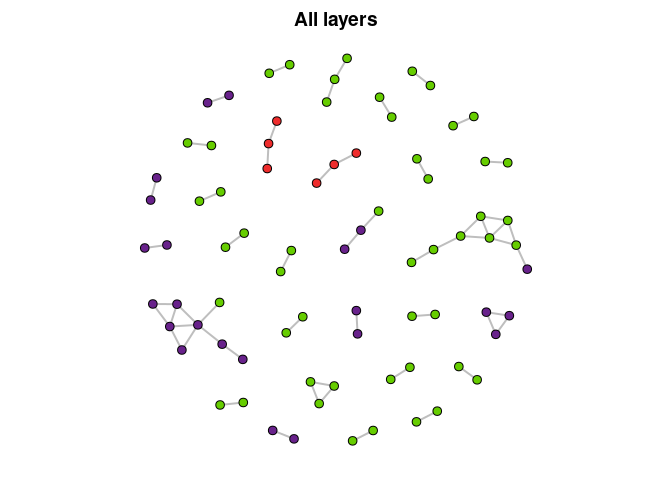
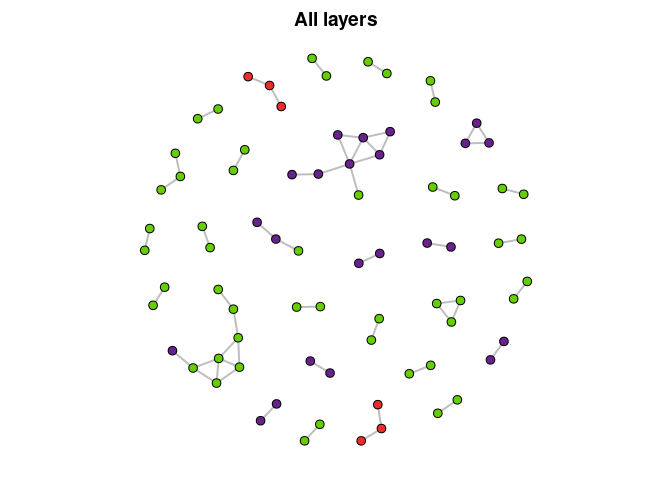
update doc

diff --git a/README.md b/README.md
@@ -10,18 +10,23 @@ is mainly based on the ‘igraph’ package for graph analysis. Functions
 can: 1) create, manipulate, and simulate fragmentation graphs, 2)
 measure the cohesion and admixture of archaeological spatial units, and
 3) characterise the topology of a specific set of refitting
-relationships.  A series of datasets are provided as examples.
+relationships. A series of datasets are provided as examples.
 
-
-[![Project Status: Active – The project has reached a stable, usable state and is being actively developed.](https://www.repostatus.org/badges/latest/active.svg)](https://www.repostatus.org/#active)
-[![Lifecycle: stable](https://img.shields.io/badge/lifecycle-stable-blue.svg)](https://lifecycle.r-lib.org/articles/stages.html#stable)
-[![R build status](https://github.com/sebastien-plutniak/archeofrag/workflows/R-CMD-check/badge.svg)](https://github.com/sebastien-plutniak/archeofrag/actions)
+[![Project Status: Active – The project has reached a stable, usable
+state and is being actively
+developed.](https://www.repostatus.org/badges/latest/active.svg)](https://www.repostatus.org/#active)
+[![Lifecycle:
+stable](https://img.shields.io/badge/lifecycle-stable-blue.svg)](https://lifecycle.r-lib.org/articles/stages.html#stable)
+[![R build
+status](https://github.com/sebastien-plutniak/archeofrag/workflows/R-CMD-check/badge.svg)](https://github.com/sebastien-plutniak/archeofrag/actions)
 [![codecov](https://codecov.io/gh/sebastien-plutniak/archeofrag/branch/master/graph/badge.svg)](https://app.codecov.io/gh/sebastien-plutniak/archeofrag)
 [![DOI](https://zenodo.org/badge/DOI/10.5281/zenodo.4271900.svg)](https://doi.org/10.5281/zenodo.4271900)
 [![SWH](https://archive.softwareheritage.org/badge/origin/https://github.com/cran/archeofrag/)](https://archive.softwareheritage.org/browse/origin/?origin_url=https://github.com/cran/archeofrag)
 [![r-universe](https://sebastien-plutniak.r-universe.dev/badges/archeofrag)](https://sebastien-plutniak.r-universe.dev/ui#package:archeofrag)
-[![CRAN status](https://www.r-pkg.org/badges/version/archeofrag)](https://CRAN.R-project.org/package=archeofrag)
-[![CRAN Downloads](https://cranlogs.r-pkg.org/badges/grand-total/archeofrag?color=brightgreen&.svg)](https://cran.r-project.org/package=archeofrag)
+[![CRAN
+status](https://www.r-pkg.org/badges/version/archeofrag)](https://CRAN.R-project.org/package=archeofrag)
+[![CRAN
+Downloads](https://cranlogs.r-pkg.org/badges/grand-total/archeofrag?color=brightgreen&.svg)](https://cran.r-project.org/package=archeofrag)
 [![license](https://img.shields.io/badge/License-GPL%20v3-blue.svg)](https://www.r-project.org/Licenses/GPL-3)
 [![status](https://joss.theoj.org/papers/ff2007d87bd4c8460b265c69dc403316/status.svg)](https://joss.theoj.org/papers/ff2007d87bd4c8460b265c69dc403316)
 
@@ -103,7 +108,8 @@ with:
 remotes::install_github("sebastien-plutniak/archeofrag")
 ```
 
-The (optional) determination of graph planarity in *Archeofrag* requires the *RBGL* package, available through *Bioconductor*:
+The (optional) determination of graph planarity in *Archeofrag* requires
+the *RBGL* package, available through *Bioconductor*:
 
 ``` r
 if (!requireNamespace("BiocManager", quietly = TRUE))
@@ -232,10 +238,10 @@ between the two spatial units (`mixed.components.only`).
 ``` r
 frag.get.layers.pair(abu.g, layer.attr="layer", sel.layers=c("1", "2"),
                      size.mini=2, mixed.components.only=TRUE)
-#> IGRAPH d4e2221 UN-- 19 22 -- 
+#> IGRAPH bed61b7 UN-- 19 22 -- 
 #> + attr: frag_type (g/c), name (v/c), layer (v/n), zmin (v/n), zmax (v/n), square (v/c), square.x (v/n), square.y (v/n), thickness
 #> | (v/n), length (v/n), thickness.by.length (v/n), sherd.type (v/c), membership (v/n), type_relation (e/c)
-#> + edges from d4e2221 (vertex names):
+#> + edges from bed61b7 (vertex names):
 #>  [1] 27 --28  28 --835 835--836 25 --8   27 --366 27 --367 28 --367 366--367 27 --371 332--371 366--371 187--188 165--195 25 --195 195--196
 #> [16] 195--197 196--198 195--204 196--204 197--204 198--204 188--250
 ```
@@ -247,10 +253,10 @@ Liang Abu:
 ``` r
 frag.get.layers(abu.g, layer.attr="layer", sel.layers="1")
 #> $`1`
-#> IGRAPH 38b572f UN-- 23 18 -- 
+#> IGRAPH 2e63535 UN-- 23 18 -- 
 #> + attr: frag_type (g/c), name (v/c), layer (v/n), zmin (v/n), zmax (v/n), square (v/c), square.x (v/n), square.y (v/n), thickness
 #> | (v/n), length (v/n), thickness.by.length (v/n), sherd.type (v/c), type_relation (e/c)
-#> + edges from 38b572f (vertex names):
+#> + edges from 2e63535 (vertex names):
 #>  [1] 392--408  123--124  301--302  313--314  435--441  477--478  25 --8    435--9999 441--9999 187--188  25 --195  195--196  195--197  196--198 
 #> [15] 195--204  196--204  197--204  198--204
 ```
@@ -566,13 +572,13 @@ value, admixture value, and cohesion values of the two spatial units).
 compare.res <- frag.simul.compare(abu.g12, layer.attr="layer",
                                   iter=30, summarise=FALSE)
 head(compare.res$h1.data)
-#>   edges weightsum   balance disturbance admixture cohesion1 cohesion2
-#> 1    55  242.8552 0.3194444  0.07272727    0.0155    0.3839    0.6006
-#> 2    54  252.2087 0.3472222  0.05555556    0.0082    0.3442    0.6476
-#> 3    54  246.7130 0.3472222  0.07407407    0.0153    0.2581    0.7266
-#> 4    53  234.7979 0.2638889  0.01886792    0.0011    0.2133    0.7856
-#> 5    58  313.6850 0.2916667  0.06896552    0.0127    0.1237    0.8636
-#> 6    50  172.7563 0.3611111  0.06000000    0.0109    0.4349    0.5542
+#>   edges weightsum balance components.balance disturbance admixture cohesion1 cohesion2
+#> 1    53  186.2886    0.32               0.32        0.04    0.0384    0.2964    0.6652
+#> 2    56  271.7788    0.29               0.33        0.04    0.0142    0.1958    0.7900
+#> 3    51  180.1365    0.30               0.27        0.04    0.0194    0.3071    0.6735
+#> 4    53  223.0447    0.33               0.35        0.04    0.0166    0.3015    0.6819
+#> 5    51  172.1320    0.35               0.36        0.01    0.0190    0.3476    0.6334
+#> 6    52  218.8517    0.33               0.37        0.01    0.0012    0.2466    0.7522
 ```
 
 For each of these parameters, the `frag.simul.summarise` function
@@ -583,14 +589,15 @@ simulated values generated for H1 and H2.
 frag.simul.summarise(abu.g12, layer.attr="layer",
                      compare.res$h1.data,
                      compare.res$h2.data)
-#>             H1 != H2? p.value Obs. value/H1 Obs. value/H2
-#> edges           FALSE    0.26         lower        within
-#> weightsum       FALSE    0.15        within        within
-#> balance         FALSE    0.26        within        within
-#> disturbance     FALSE    0.42         lower         lower
-#> admixture       FALSE    0.38         lower         lower
-#> cohesion1        TRUE       0        higher        within
-#> cohesion2        TRUE       0         lower        within
+#>                    H1 != H2? p.value Obs. value/H1 Obs. value/H2
+#> edges                  FALSE    0.19        within        within
+#> weightsum              FALSE    0.15        within        within
+#> balance                FALSE    0.53        within        within
+#> components.balance      TRUE       0         lower        within
+#> disturbance            FALSE    0.16        within        within
+#> admixture              FALSE    0.94         lower         lower
+#> cohesion1               TRUE       0        higher        higher
+#> cohesion2               TRUE       0         lower        within
 ```
 
 This function returns a data frame with four columns, containing, for
@@ -736,7 +743,7 @@ rbind(
   "unit2" = frag.cycles(simul.g2, kmax=5))
 #>       3-cycles 4-cycles 5-cycles
 #> unit1        8        2        0
-#> unit2       24       14        5
+#> unit2       19        8        1
 ```
 
 The `frag.path.lengths` function returns the distribution of the path
@@ -749,11 +756,11 @@ path lengths.
 
 ``` r
 frag.path.lengths(simul.g1)
-#> [1] 30  9
+#> [1] 30  6
 frag.path.lengths(simul.g2)
-#> [1] 46 14  2
+#> [1] 45 13
 frag.path.lengths(simul.g2, cumulative=T)
-#> [1] 1.00000000 0.30434783 0.04347826
+#> [1] 1.0000000 0.2888889
 ```
 
 In a graph, the shortest path between two vertices is the path including
@@ -766,8 +773,8 @@ cumulative relative frequency of the diameters.
 ``` r
 frag.diameters(simul.g1)
 #> 1 2 
-#> 5 5
+#> 4 6
 frag.diameters(simul.g2)
-#> 1 2 3 
-#> 4 4 2
+#> 1 2 
+#> 4 6
 ```

diff --git a/NEWS.md b/NEWS.md
@@ -7,6 +7,7 @@
 * Parameter asymmetric.transport.from for `frag.simulprocess()` now admit value 0 (similar to NULL, disabling this feature).
 * Revision of `frag.graph.reduce`: to preserve the number of connected components, the use of igraph::articulation points is introduced. A bug in the while loops is fixed with a new control through the 'is.reducible' variable.
 * Corrections in the documentation.
+* Change default colors in `frag.graph.plot()`
 
 # archeofrag 1.0.0
 Released: 2024-12-16
